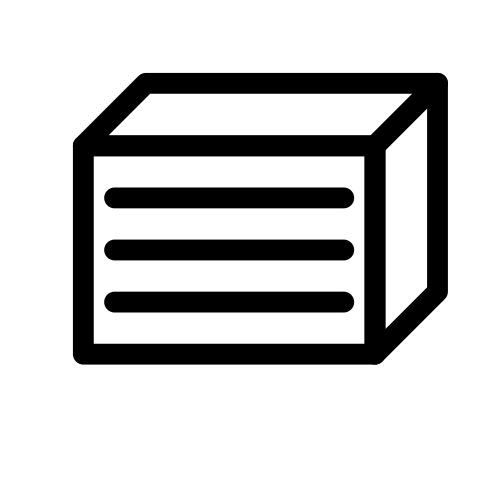
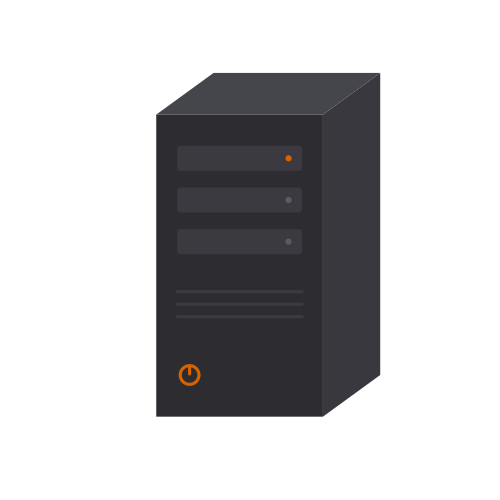
fix: v1.2.12 - replace driver images with real illustrations
Athom's App Store review flagged that the Node, VM/Container, and
Cluster driver images were just the pairing icon rasterized onto a
white background, not an actual picture of the device/service.

Replaced all three: an angled server tower with drive bays for Node,
a desktop monitor/keyboard setup for VM/Container, and three connected
server units for Cluster - all on the required white background,
distinct from their transparent-background line-art pairing icons.

diff --git a/com.proxmox.proxmoxve/.homeybuild/RELEASE_NOTES.md b/com.proxmox.proxmoxve/.homeybuild/RELEASE_NOTES.md
@@ -1,5 +1,16 @@
 # Release Notes
 
+## v1.2.12 - Real Driver Images
+
+### 🐛 Fixes
+- **Driver images replaced**: Athom's App Store review flagged that the Node, VM/Container, and
+  Cluster driver images were just the pairing icon rasterized onto a white background - not
+  actual pictures of the device/service, per the [App Store guidelines](https://apps.developer.homey.app/app-store/guidelines#id-1.4.-images).
+  Replaced all three with proper illustrations: an angled server tower with drive bays for Node,
+  a desktop monitor/keyboard setup for VM/Container, and three connected server units for
+  Cluster - all on the required white background, distinct from their (transparent-background,
+  line-art) pairing icons.
+
 ## v1.2.11 - Dashboard Widgets Reworked Around Live Operational Status
 
 ### 🚀 New Features

diff --git a/com.proxmox.proxmoxve/RELEASE_NOTES.md b/com.proxmox.proxmoxve/RELEASE_NOTES.md
@@ -1,5 +1,16 @@
 # Release Notes
 
+## v1.2.12 - Real Driver Images
+
+### 🐛 Fixes
+- **Driver images replaced**: Athom's App Store review flagged that the Node, VM/Container, and
+  Cluster driver images were just the pairing icon rasterized onto a white background - not
+  actual pictures of the device/service, per the [App Store guidelines](https://apps.developer.homey.app/app-store/guidelines#id-1.4.-images).
+  Replaced all three with proper illustrations: an angled server tower with drive bays for Node,
+  a desktop monitor/keyboard setup for VM/Container, and three connected server units for
+  Cluster - all on the required white background, distinct from their (transparent-background,
+  line-art) pairing icons.
+
 ## v1.2.11 - Dashboard Widgets Reworked Around Live Operational Status
 
 ### 🚀 New Features
